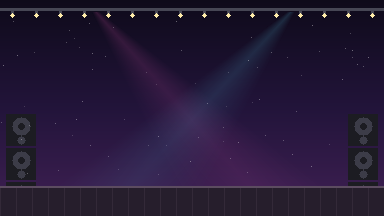
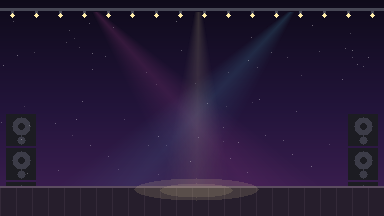
fix: light the frontman, bring the ram back, and re-pin the density check
The three things that drawing the sprites (DECISION-050) turned up, each
logged in docs/IDEAS.md at the time and fixed here.

The frontman was the faintest object in his own scenario: a black goat on
a dark stage floor between white crowd goats, found by the eye after the
crowd and after the mic stand. The two flourish poses have carried a rim
light since they were drawn, for exactly that reason; the four normal
poses are the Rocky body recoloured, and a recolour has no rim to give.
They get one now, as a lighting pass over the topmost coat pixel of each
column rather than five redrawn sprites — and the backdrop gets a third
beam, a white follow-spot on the performer with a pool on the boards at
hoof height, which is the top of the floor strip and not the middle of
it. A pool centred on the strip lit nobody.

The headbutt was half a gesture. Its outbound arc was dropped the moment
it finished, so the ram lunged at the wolf and was home on the very next
frame. It now arcs back over the following third of a beat, lower and
flatter than the leap, to whichever lane it is standing on by then: out
on the third partial, home on the next group's first tap.

And the browser suite still measured note density at L4, which the Scale
content redo turned back into quarters — DECISION-049 re-pinned the unit
tests to that redo and missed this suite. It compares L1 against L6 now,
where the thirty-two eighths are: 7.14 beats against 3.7, and the run
comes back 99/99.

See DECISION-051.
[…]

Changed region(s): [[0.3438, 0.8056, 0.6875, 0.9444], [0.5, 0.0556, 0.5312, 0.4167]]

diff --git a/src/scenario/minigames/three-step-minigame.ts b/src/scenario/minigames/three-step-minigame.ts
@@ -65,6 +65,16 @@ const EFFECT_BEATS = 0.5;
 const LEAP_BEATS = 1 / 3;
 /** How high the leap arcs, in lane-band units. Negative y is up. */
 const LEAP_HEIGHT = 0.55;
+/**
+ * The trot back, once the headbutt has landed.
+ *
+ * A third of a beat out and a third back puts the ram home on the beat after
+ * the one it leapt on — the next group's first tap — so the round trip is the
+ * length of the gesture that caused it. The return arcs lower than the leap
+ * because it is not the gesture: the ram is walking off a hit, not landing one.
+ */
+const RECOVER_BEATS = 1 / 3;
+const RECOVER_HEIGHT = 0.18;
 
 /*
  * How big the two animals are, and how far apart they stand.
@@ -126,6 +136,14 @@ export function stepOf(opportunity: Opportunity): Step | null {
   if (withinBeat === TRIPLET_TICKS) return "b";
   if (withinBeat === TRIPLET_TICKS * 2) return "c";
   return null;
+}
+
+/**
+ * The vertical centre of a lane, in the normalised lane-band space sprites are
+ * placed in: lane 0 at the bottom, `laneCount - 1` at the top.
+ */
+function laneY(view: StageView, lane: number): number {
+  return view.laneCount <= 1 ? 0.5 : 1 - (lane + 0.5) / view.laneCount;
 }
 
 /** A pose or effect showing right now, with the beat it started on. */
@@ -224,7 +242,11 @@ class ThreeStepMinigame implements Minigame {
 
   update(beat: number): void {
     this.#effects = this.#effects.filter((flash) => decay(flash.startBeat, EFFECT_BEATS, beat) > 0);
-    if (this.#leap && beat >= this.#leap.startBeat + LEAP_BEATS) this.#leap = null;
+    // Held through the return as well as the leap: dropping it at the top of
+    // the arc is what used to teleport the ram home. See `#ramPosition`.
+    if (this.#leap && beat >= this.#leap.startBeat + LEAP_BEATS + RECOVER_BEATS) {
+      this.#leap = null;
+    }
   }
 
   /**
@@ -251,8 +273,6 @@ class ThreeStepMinigame implements Minigame {
 
   render(view: StageView): Stage {
     const sprites: Sprite[] = [];
-    const laneY = (lane: number): number =>
-      view.laneCount <= 1 ? 0.5 : 1 - (lane + 0.5) / view.laneCount;
 
     // The target waits at the strike line for the whole attempt: this family's
     // notes come to the actor rather than the actor chasing them.
@@ -264,7 +284,7 @@ class ThreeStepMinigame implements Minigame {
         key: "target",
         assetId: targetArt,
         x: view.strikeX + view.measure.beatWidth * TARGET_AHEAD_BEATS,
-        y: laneY(this.#aim ?? 0) + 0.12,
+        y: laneY(view, this.#aim ?? 0) + 0.12,
         scale: ACTOR_SCALE,
         anchor: "bottom",
         layer: "over",
@@ -275,21 +295,9 @@ class ThreeStepMinigame implements Minigame {
     if (pose) {
       // Mid-leap the ram flies an arc between the two lanes; otherwise it
       // stands on the one its pose was set on, leaning at what is coming.
-      const restY = laneY(pose.lane);
+      const restY = laneY(view, pose.lane);
       const restX = view.strikeX - view.measure.beatWidth * RAM_REST_BEATS;
-      const position = this.#leap
-        ? arc(
-            { x: restX, y: laneY(this.#leap.from) },
-            {
-              x: view.strikeX - view.measure.beatWidth * RAM_LEAP_BEATS,
-              y: laneY(this.#leap.to),
-            },
-            LEAP_HEIGHT,
-            this.#leap.startBeat,
-            LEAP_BEATS,
-            view.beat
-          )
-        : { x: restX, y: restY };
+      const position = this.#ramPosition(view, { x: restX, y: restY });
       sprites.push({
         key: "ram",
         assetId: pose.assetId,
@@ -306,7 +314,7 @@ class ThreeStepMinigame implements Minigame {
         key: `fx-${i}-${flash.startBeat}`,
         assetId: flash.assetId,
         x: view.strikeX,
-        y: laneY(flash.lane),
+        y: laneY(view, flash.lane),
         // The same scale as the animals: the effects were drawn in the same
         // frame, and a flash that keeps its full size next to a scaled-down ram
         // reads as a different scene happening on top of this one.
@@ -317,6 +325,43 @@ class ThreeStepMinigame implements Minigame {
     }
 
     return { background: this.#config.background, sprites };
+  }
+
+  /**
+   * Where the ram is: at rest, going out, or coming back.
+   *
+   * The headbutt is a round trip. An earlier pass drew only the outbound arc and
+   * dropped the leap the moment it finished, so the ram lunged at the wolf and
+   * was home again on the very next frame — a teleport, and the one gesture this
+   * whole family is named for. The return is the second half of it: a lower,
+   * flatter arc back to whichever lane the ram is standing on *now*, so a leap
+   * that landed on the last note of a group walks back to where the next group
+   * starts rather than to where the last one did.
+   *
+   * Both halves are `arc()` against `view.beat`, like everything else here —
+   * nothing accumulates, so a dropped frame loses no ground and the position at
+   * any beat is the same on every machine.
+   */
+  #ramPosition(view: StageView, rest: { x: number; y: number }): { x: number; y: number } {
+    const leap = this.#leap;
+    if (!leap) return rest;
+
+    const landing = {
+      x: view.strikeX - view.measure.beatWidth * RAM_LEAP_BEATS,
+      y: laneY(view, leap.to),
+    };
+
+    if (view.beat < leap.startBeat + LEAP_BEATS) {
+      return arc(
+        { x: rest.x, y: laneY(view, leap.from) },
+        landing,
+        LEAP_HEIGHT,
+        leap.startBeat,
+        LEAP_BEATS,
+        view.beat
+      );
+    }
+    return arc(landing, rest, RECOVER_HEIGHT, leap.startBeat + LEAP_BEATS, RECOVER_BEATS, view.beat);
   }
 
   /**

diff --git a/tests/three-step.test.ts b/tests/three-step.test.ts
@@ -44,9 +44,9 @@ function judged(index: number, outcome: Judged["outcome"], beat: number): Judged
 }
 
 /** A minimal stage view: the host owns all of this, so a test may state it flatly. */
-function view(): StageView {
+function view(beat = 0.7): StageView {
   return {
-    beat: 0.7,
+    beat,
     notes: [],
     laneCount: 8,
     strikeX: 0.3,
@@ -197,6 +197,56 @@ describe("the authored escalation", () => {
     for (let i = 0; i < 40; i += 1) minigame.onJudged(judged(i, "perfect", 0), 0);
     const effects = (minigame.render(view()).sprites ?? []).filter((s) => s.key.startsWith("fx-"));
     expect(effects.length).toBeLessThanOrEqual(6);
+  });
+});
+
+describe("the headbutt is a round trip", () => {
+  /** The x the ram is drawn at on this frame, after letting it decay to it. */
+  function ramX(minigame: ReturnType<typeof instance>, beat: number): number {
+    minigame.update(beat);
+    const ram = minigame.render(view(beat)).sprites?.find((sprite) => sprite.key === "ram");
+    if (!ram) throw new Error("no ram on stage");
+    return ram.x;
+  }
+
+  /** A group whose headbutt lands on a different lane from its taps. */
+  function afterAHeadbutt() {
+    const group = [opportunity(0, 0, 0), opportunity(1, 1 / 3, 0), opportunity(2, 2 / 3, 5)];
+    const minigame = instance(group);
+    minigame.onJudged(judged(0, "perfect", 0), 0);
+    minigame.onJudged(judged(1, "perfect", 1 / 3), 1 / 3);
+    minigame.onJudged(judged(2, "perfect", 2 / 3), 2 / 3);
+    return minigame;
+  }
+
+  // `view()` puts the strike line at 0.3 with a beat 0.1 wide, so the ram rests
+  // at 0.18 and the headbutt lands it at 0.23.
+  const REST_X = 0.18;
+  const LANDING_X = 0.23;
+
+  it("arrives at the wolf, and is home again a third of a beat later", () => {
+    const minigame = afterAHeadbutt();
+    expect(ramX(minigame, 2 / 3)).toBeCloseTo(REST_X, 6);
+    expect(ramX(minigame, 1)).toBeCloseTo(LANDING_X, 6);
+    expect(ramX(minigame, 1 + 1 / 3)).toBeCloseTo(REST_X, 6);
+    // And stays there rather than drifting once the leap state is dropped.
+    expect(ramX(minigame, 2)).toBeCloseTo(REST_X, 6);
+  });
+
+  it("never crosses the gap in one frame", () => {
+    // The bug this pins: the leap used to be dropped the moment it finished, so
+    // the ram lunged at the wolf and was home on the very next frame. The whole
+    // trip is 0.05 wide; a teleport puts all of it into one frame, and an arc
+    // spends it over twenty.
+    const minigame = afterAHeadbutt();
+    let previous = ramX(minigame, 2 / 3);
+    let biggestStep = 0;
+    for (let beat = 2 / 3; beat <= 2.5; beat += 1 / 60) {
+      const x = ramX(minigame, beat);
+      biggestStep = Math.max(biggestStep, Math.abs(x - previous));
+      previous = x;
+    }
+    expect(biggestStep).toBeLessThan((LANDING_X - REST_X) / 4);
   });
 });
 

diff --git a/DECISION_LOG.md b/DECISION_LOG.md
@@ -4,6 +4,17 @@ Maintained per `AGENTS.md`'s Decision Logging Protocol. Newest entries first.
 
 ---
 
+#### DECISION-051: The three things drawing the sprites turned up
+* **Date:** 2026-09-03
+* **Status:** Accepted (follows DECISION-050)
+* **Owner:** Trevor (agent-assisted)
+* **Context:** Wiring `Stage.sprites` (DECISION-050) put two scenarios on screen for the first time and immediately said three things about them, all logged in `docs/IDEAS.md` rather than fixed inside that change. **One:** the Goat Frontman performer is a black goat on a dark stage floor standing between white crowd goats, and the eye finds the crowd and the mic stand before it finds him — he is the subject of his own scenario and its faintest object. The two `flourishPoses[]` have carried a rim light since they were drawn, for exactly this reason; the four normal poses are the Rocky body recoloured and a recolour has no rim to give. **Two:** Butt-Butt-BONK's headbutt is an outbound `arc()` that was dropped the moment it finished, so the ram lunged at the wolf and was home again on the very next frame — a teleport, in the one gesture the family is named for. **Three:** `npm run validate:browser` still measured note density at L4, which the Scale content redo turned back into quarters; DECISION-049 re-pinned the unit tests to that redo and missed this suite, so two of its checks failed on `main` describing content that is not there.
+* **Decision:** Fix all three, each in the layer that owns it. **The light:** a `rimLight()` pass in `scripts/lib/frontman-art.mjs` lights the topmost coat pixel of each column of the pose cycle and the finish pose, and `bg_goat_frontman` gains a third beam — a white follow-spot aimed where the performer stands, with a pool on the boards at **hoof height**, which is the top of the floor strip rather than the middle of it. **The return:** `ThreeStepMinigame` holds its leap state through a `RECOVER_BEATS` return and `#ramPosition()` arcs the ram back, lower and flatter than the leap, to whichever lane it is standing on by then — a third of a beat out and a third back, so the round trip is the length of the gesture that caused it and the ram is home on the next group's first tap. **The check:** the density comparison is L1 against **L6**, where the thirty-two eighths now are.
+* **Alternatives Considered:** (a) Lightening the frontman's coat, or giving him a lighter body outright. Rejected: the coat being nearly black *is* the character, and `frontman-art.mjs` already says the silhouette is what the poses are drawn around. A rim and a lit floor behind him raise the contrast without touching either. (b) Drawing five new poses with the rim baked in. Rejected: they would be five near-identical assets of the Rocky body (`AGENTS.md` §11), and the recolour would still be the thing that has to stay in step. (c) Holding the ram at the wolf until the next note instead of arcing back. Rejected: the next note is an A, on the beat, and a ram that walks home *as* the next group starts reads as recovery; one that is still leaning on the wolf when the taps begin reads as stuck. (d) Also re-aiming the suite's `not capped at 60fps` check, which fails in this container at 71-80 against a threshold of 90. **Deliberately left alone:** `docs/IDEAS.md` already carries that one with its own analysis — the threshold was chosen when the container ran at 198, the art work since has cost ~16%, and the entry says in terms that lowering the threshold inside another change is the wrong way to settle it.
+* **Consequences:** Positive — the frontman reads as the subject of his scenario, the headbutt is a whole gesture rather than half of one, and `validate:browser` measures a density difference that exists — 7.14 beats against 3.7, and 99/99 on the run that was taken, though the fps check above sits right on its threshold in this container (71-80 fps on earlier runs, passing on this one) and is not evidence of anything either way. `tests/three-step.test.ts` pins both ends of the ram's round trip and that no frame crosses more than a quarter of it, which is the shape of the bug rather than its symptom. Negative — the follow-spot's floor pool is placed in *art* coordinates against a performer placed in *timeline* coordinates, and the backdrop is cover-fit, so the two only line up approximately; the pool is deliberately wide and soft for that reason, and it is one more thing that moves if the gutter's width ever changes. The rim light is also a lighting pass over a recolour rather than a drawing, so a future frontman drawn from scratch inherits none of it.
+
+---
+
 #### DECISION-050: `Stage.sprites` is drawn, and a sprite's natural size is the size it was drawn at
 * **Date:** 2026-09-03
 * **Status:** Accepted (closes half of DECISION-044's stated negative)

diff --git a/docs/IDEAS.md b/docs/IDEAS.md
@@ -231,45 +231,36 @@ Both sit behind `docs/game-design/PROPOSED_Next_Families.md` (DECISION-047),
 which is where the re-verification was done and where the full provenance table
 lives.
 
-### The browser suite still asks L4 for eighth notes
-
-DECISION-049 re-pinned the unit tests to the Scale content redo, which moved
-Rocky Ascent's eighth-note material from L3/L4 up to L5/L6. `npm run
-validate:browser` was not re-pinned with them, so two of its checks — "L4's
-eight eighth notes take about four beats" and "L4 is denser than L1" — now fail
-on `main` describing content that no longer exists there. Same staleness, same
-fix: read the assertion's intent and point it at L5/L6.
-
-(The third failure in the same run, "the frame loop is not capped at 60fps", is
-the headless container rendering on the CPU with vsync disabled, not the game.)
-
-### The frontman is the least visible thing on his own stage
-
-Noticed the first time Goat Frontman actually drew its sprites (DECISION-050).
-The crowd is white goats on a dark stage floor and reads instantly; the
-performer is a dark goat on the same floor, lit from behind by the backdrop's
-own spotlights, and at a glance the eye finds the crowd and the mic stand before
-it finds him. He is the subject of the scenario and currently its faintest
-object.
-
-Nothing is wrong with the placement — he stands where the class puts him and the
-crowd grows around him correctly. It is a value problem in the art:
-`goat_goat_frontman_perform_*` want a rim light or a lighter body, or
-`bg_goat_frontman` wants to be darker where he stands. Both are one pass in
-`scripts/lib/frontman-art.mjs`.
-
-### The ram snaps back after every headbutt
-
-Butt-Butt-BONK's leap is an `arc()` toward the wolf that holds for a third of a
-beat and then stops being drawn, so the ram is back at its resting spot on the
-next frame — it lunges in and teleports out. It was invisible until the sprites
-drew (DECISION-050) and it is a real gap in the gesture: the family owns its own
-motion (`minigame/api.ts`, **Motion**), so the fix is a return arc, or holding
-the landed position until the next note rather than for a fixed span. Worth
-doing next to whatever pass gives the wolf a reaction bigger than swapping to
-its bonked frame.
-
 ## Closed
+
+### The frontman gets a rim light and a follow-spot — built, 2026-09-03 (DECISION-051)
+
+He was the faintest object in his own scenario: a black goat on a dark stage
+floor, found by the eye after the white crowd and after the mic stand. The four
+normal poses now carry the same rim light the two flourish poses were drawn
+with, and the backdrop has a third beam — a white follow-spot on the performer,
+with a pool on the boards at hoof height so his legs have a lit floor behind
+them. Nothing was redrawn; both are passes over art that already existed.
+
+Still open underneath it, if anyone wants it: the coat itself is one flat mass
+at this size, and it is the *silhouette* doing the work rather than anything
+inside it. That is by design (`frontman-art.mjs` says so) and it is worth
+re-reading once the crowd is bigger than a dozen.
+
+### The ram comes back from the headbutt — built, 2026-09-03 (DECISION-051)
+
+The leap was an outbound arc dropped the moment it finished, so the ram lunged
+at the wolf and was home again on the next frame. It now arcs back over the
+following third of a beat, lower and flatter than the leap, landing on whichever
+lane it is standing on by then. `tests/three-step.test.ts` pins both ends of the
+trip and that no frame crosses more than a quarter of it.
+
+### The browser suite asks L6 for eighth notes — fixed, 2026-09-03 (DECISION-051)
+
+DECISION-049 re-pinned the unit tests to the Scale content redo and missed this
+suite, so its density comparison was measuring L4's quarters against L1's and
+failing on both of its own assertions. It compares L1 against L6 now, which is
+where the thirty-two eighths actually are.
 
 ### The gate sets itself, as early as there is signal — built, 2026-08-31 (DECISION-035)
 

diff --git a/docs/assets/ASSET_SOURCES.md b/docs/assets/ASSET_SOURCES.md
@@ -238,6 +238,15 @@ The crowd goat (shipped, above) is one sprite instantiated up to
 swap between its two states; that stayed true when it changed from generated
 to real art.
 
+**Lighting pass, 2026-09-03 (DECISION-051).** The four `performerPoses[]` and
+the `finishPose` gained the rim light the two `flourishPoses[]` were drawn with
+from the start, and `bg_goat_frontman` gained a third beam — a white follow-spot
+aimed where the performer stands, with a pool on the boards at hoof height. The
+frontman is a black goat on a dark stage between white crowd goats, and once the
+timeline started drawing sprites at all he turned out to be the faintest thing
+in his own scenario. Nothing was redrawn: the rim is one pass over the recoloured
+Rocky body, and the spot is two ellipses and a cone in the existing backdrop.
+
 - **Author:** original work for this repository.
 - **Licence:** CC0 / public domain. No third-party rights are involved.
 - **Source:** generated by `scripts/generate-placeholder-art.mjs`
